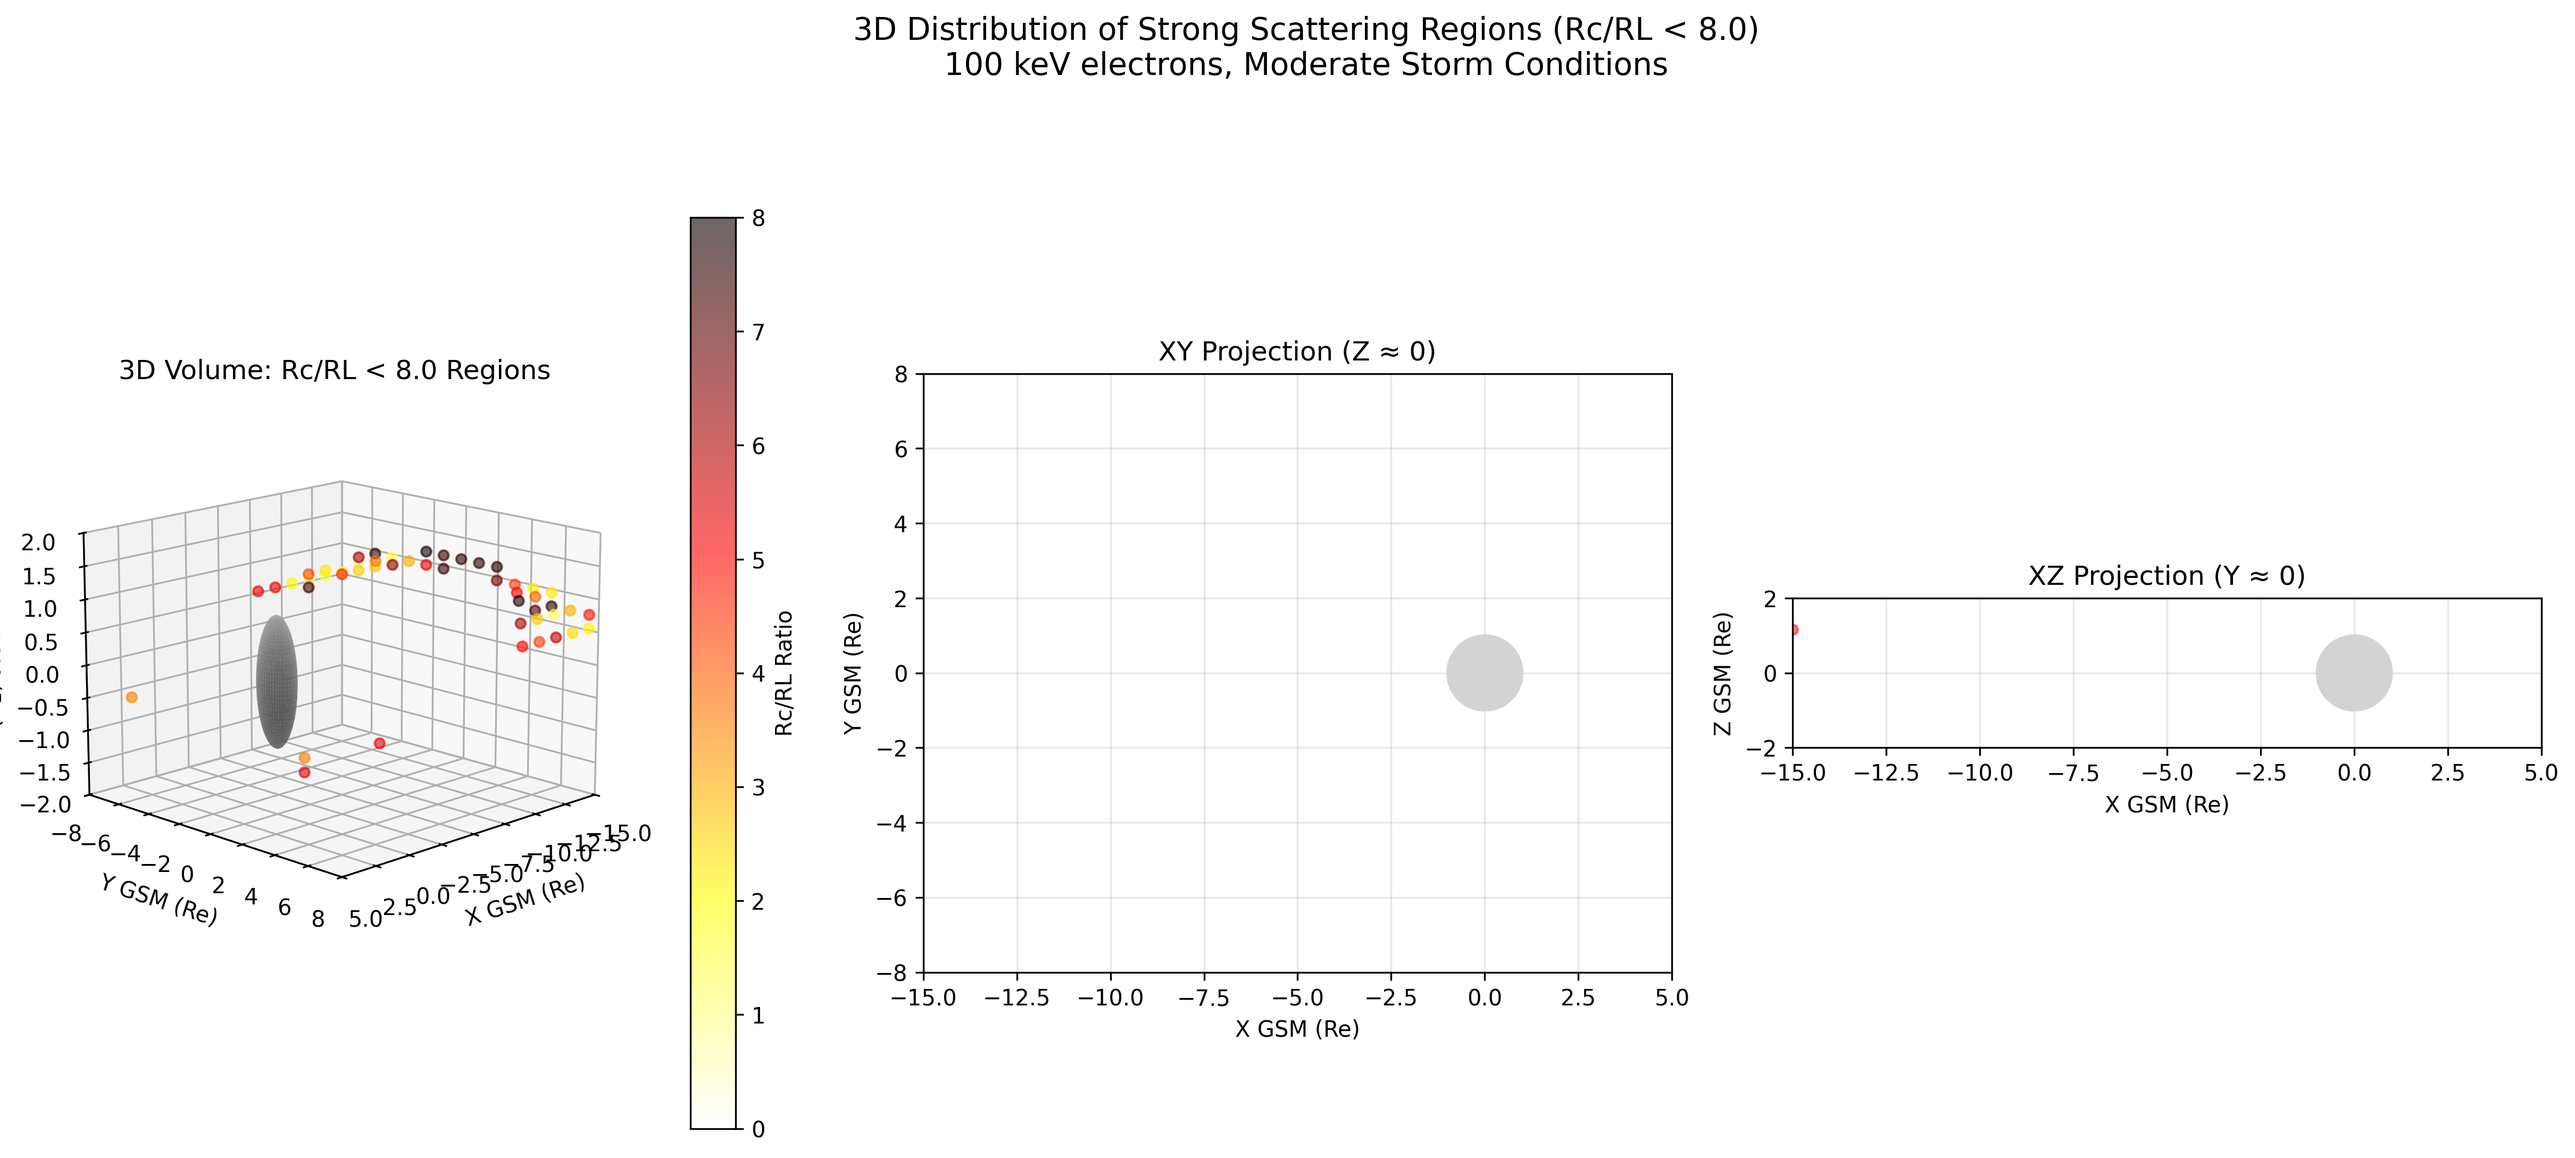
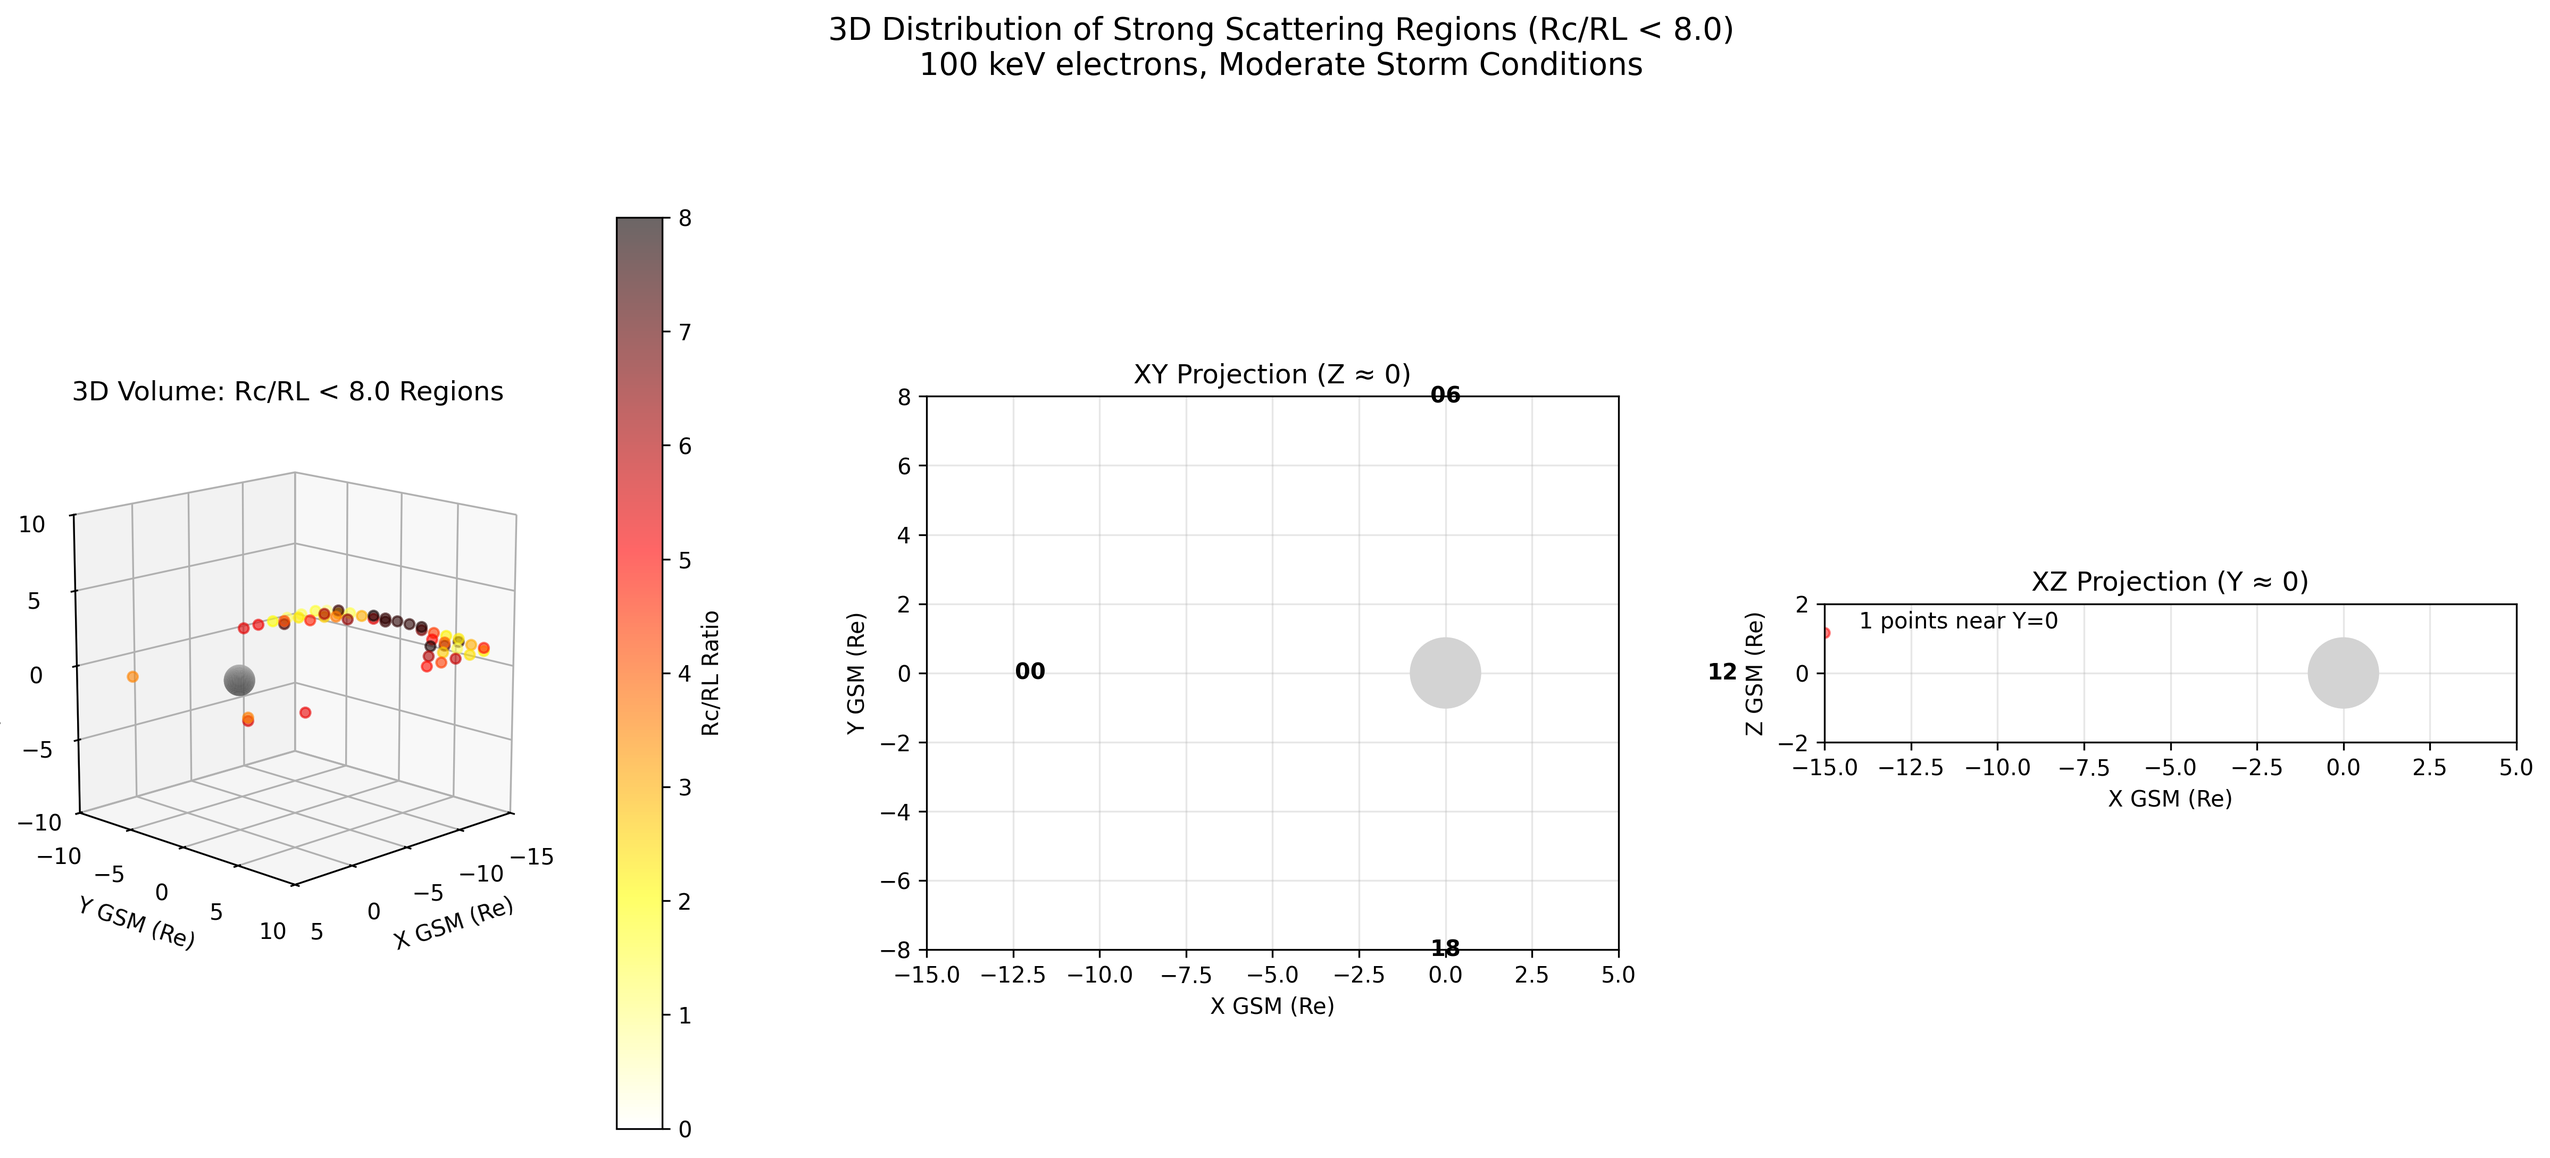
feat: Add equal aspect ratio to 3D plots for accurate visualization
- Add set_axes_equal() function to ensure X, Y, Z axes have the same scale
- Apply equal aspect ratio to 3D plots in field_lines_3d_visualization.py
- Apply equal aspect ratio to 3D plots in scattering_regions_volume_rendering.py
- Earth now appears as a true sphere instead of an ellipsoid
- Physical distances are preserved in all directions
- Field line geometry is accurately represented

This ensures that the 3D magnetospheric structure is visualized without distortion,
which is crucial for understanding the spatial distribution of scattering regions.

🤖 Generated with [Claude Code](https://claude.ai/code)

diff --git a/larmor_radius_analysis/scattering_regions_volume_rendering.py b/larmor_radius_analysis/scattering_regions_volume_rendering.py
@@ -43,6 +43,34 @@ def calculate_larmor_radius(energy_keV, B_nT, pitch_angle_deg=90):
     return RL
 
 
+def set_axes_equal(ax):
+    """
+    Make axes of 3D plot have equal scale so that spheres appear as spheres,
+    cubes as cubes, etc. This is one possible solution to Matplotlib's
+    ax.set_aspect('equal') and ax.axis('equal') not working for 3D.
+    
+    3Dプロットの軸を等しいスケールに設定します。
+    """
+    x_limits = ax.get_xlim3d()
+    y_limits = ax.get_ylim3d()
+    z_limits = ax.get_zlim3d()
+
+    x_range = abs(x_limits[1] - x_limits[0])
+    x_middle = np.mean(x_limits)
+    y_range = abs(y_limits[1] - y_limits[0])
+    y_middle = np.mean(y_limits)
+    z_range = abs(z_limits[1] - z_limits[0])
+    z_middle = np.mean(z_limits)
+
+    # The plot bounding box is a sphere in the sense of the infinity
+    # norm, hence I call half the max range the plot radius.
+    plot_radius = 0.5*max([x_range, y_range, z_range])
+
+    ax.set_xlim3d([x_middle - plot_radius, x_middle + plot_radius])
+    ax.set_ylim3d([y_middle - plot_radius, y_middle + plot_radius])
+    ax.set_zlim3d([z_middle - plot_radius, z_middle + plot_radius])
+
+
 def calculate_curvature_radius(model_func, parmod, ps, x, y, z):
     """Calculate radius of curvature and magnetic field strength."""
     kappa = field_line_curvature_vectorized(model_func, parmod, ps, x, y, z)
@@ -136,6 +164,16 @@ def main():
     ax1.set_xlim(-15, 5)
     ax1.set_ylim(-8, 8)
     ax1.set_zlim(-2, 2)
+    
+    # Apply equal aspect ratio to 3D plot
+    set_axes_equal(ax1)
+    
+    # Alternative method for newer matplotlib versions
+    try:
+        ax1.set_box_aspect([1, 1, 1])
+    except AttributeError:
+        pass  # Already handled by set_axes_equal
+    
     ax1.view_init(elev=15, azim=45)
     
     # XY projection (equatorial plane)

diff --git a/larmor_radius_analysis/field_lines_3d_visualization.py b/larmor_radius_analysis/field_lines_3d_visualization.py
@@ -45,6 +45,34 @@ def calculate_larmor_radius(energy_keV, B_nT, pitch_angle_deg=90):
     return RL
 
 
+def set_axes_equal(ax):
+    """
+    Make axes of 3D plot have equal scale so that spheres appear as spheres,
+    cubes as cubes, etc. This is one possible solution to Matplotlib's
+    ax.set_aspect('equal') and ax.axis('equal') not working for 3D.
+    
+    3Dプロットの軸を等しいスケールに設定します。
+    """
+    x_limits = ax.get_xlim3d()
+    y_limits = ax.get_ylim3d()
+    z_limits = ax.get_zlim3d()
+
+    x_range = abs(x_limits[1] - x_limits[0])
+    x_middle = np.mean(x_limits)
+    y_range = abs(y_limits[1] - y_limits[0])
+    y_middle = np.mean(y_limits)
+    z_range = abs(z_limits[1] - z_limits[0])
+    z_middle = np.mean(z_limits)
+
+    # The plot bounding box is a sphere in the sense of the infinity
+    # norm, hence I call half the max range the plot radius.
+    plot_radius = 0.5*max([x_range, y_range, z_range])
+
+    ax.set_xlim3d([x_middle - plot_radius, x_middle + plot_radius])
+    ax.set_ylim3d([y_middle - plot_radius, y_middle + plot_radius])
+    ax.set_zlim3d([z_middle - plot_radius, z_middle + plot_radius])
+
+
 def calculate_curvature_radius(model_func, parmod, ps, x, y, z):
     """Calculate radius of curvature and magnetic field strength."""
     kappa = field_line_curvature_vectorized(model_func, parmod, ps, x, y, z)
@@ -225,6 +253,16 @@ def main():
     ax1.set_xlim(-15, 5)
     ax1.set_ylim(-10, 10)
     ax1.set_zlim(-5, 5)
+    
+    # Apply equal aspect ratio to 3D plot
+    set_axes_equal(ax1)
+    
+    # Alternative method for newer matplotlib versions
+    try:
+        ax1.set_box_aspect([1, 1, 1])
+    except AttributeError:
+        pass  # Already handled by set_axes_equal
+    
     ax1.view_init(elev=20, azim=45)
     
     # Meridian projection
